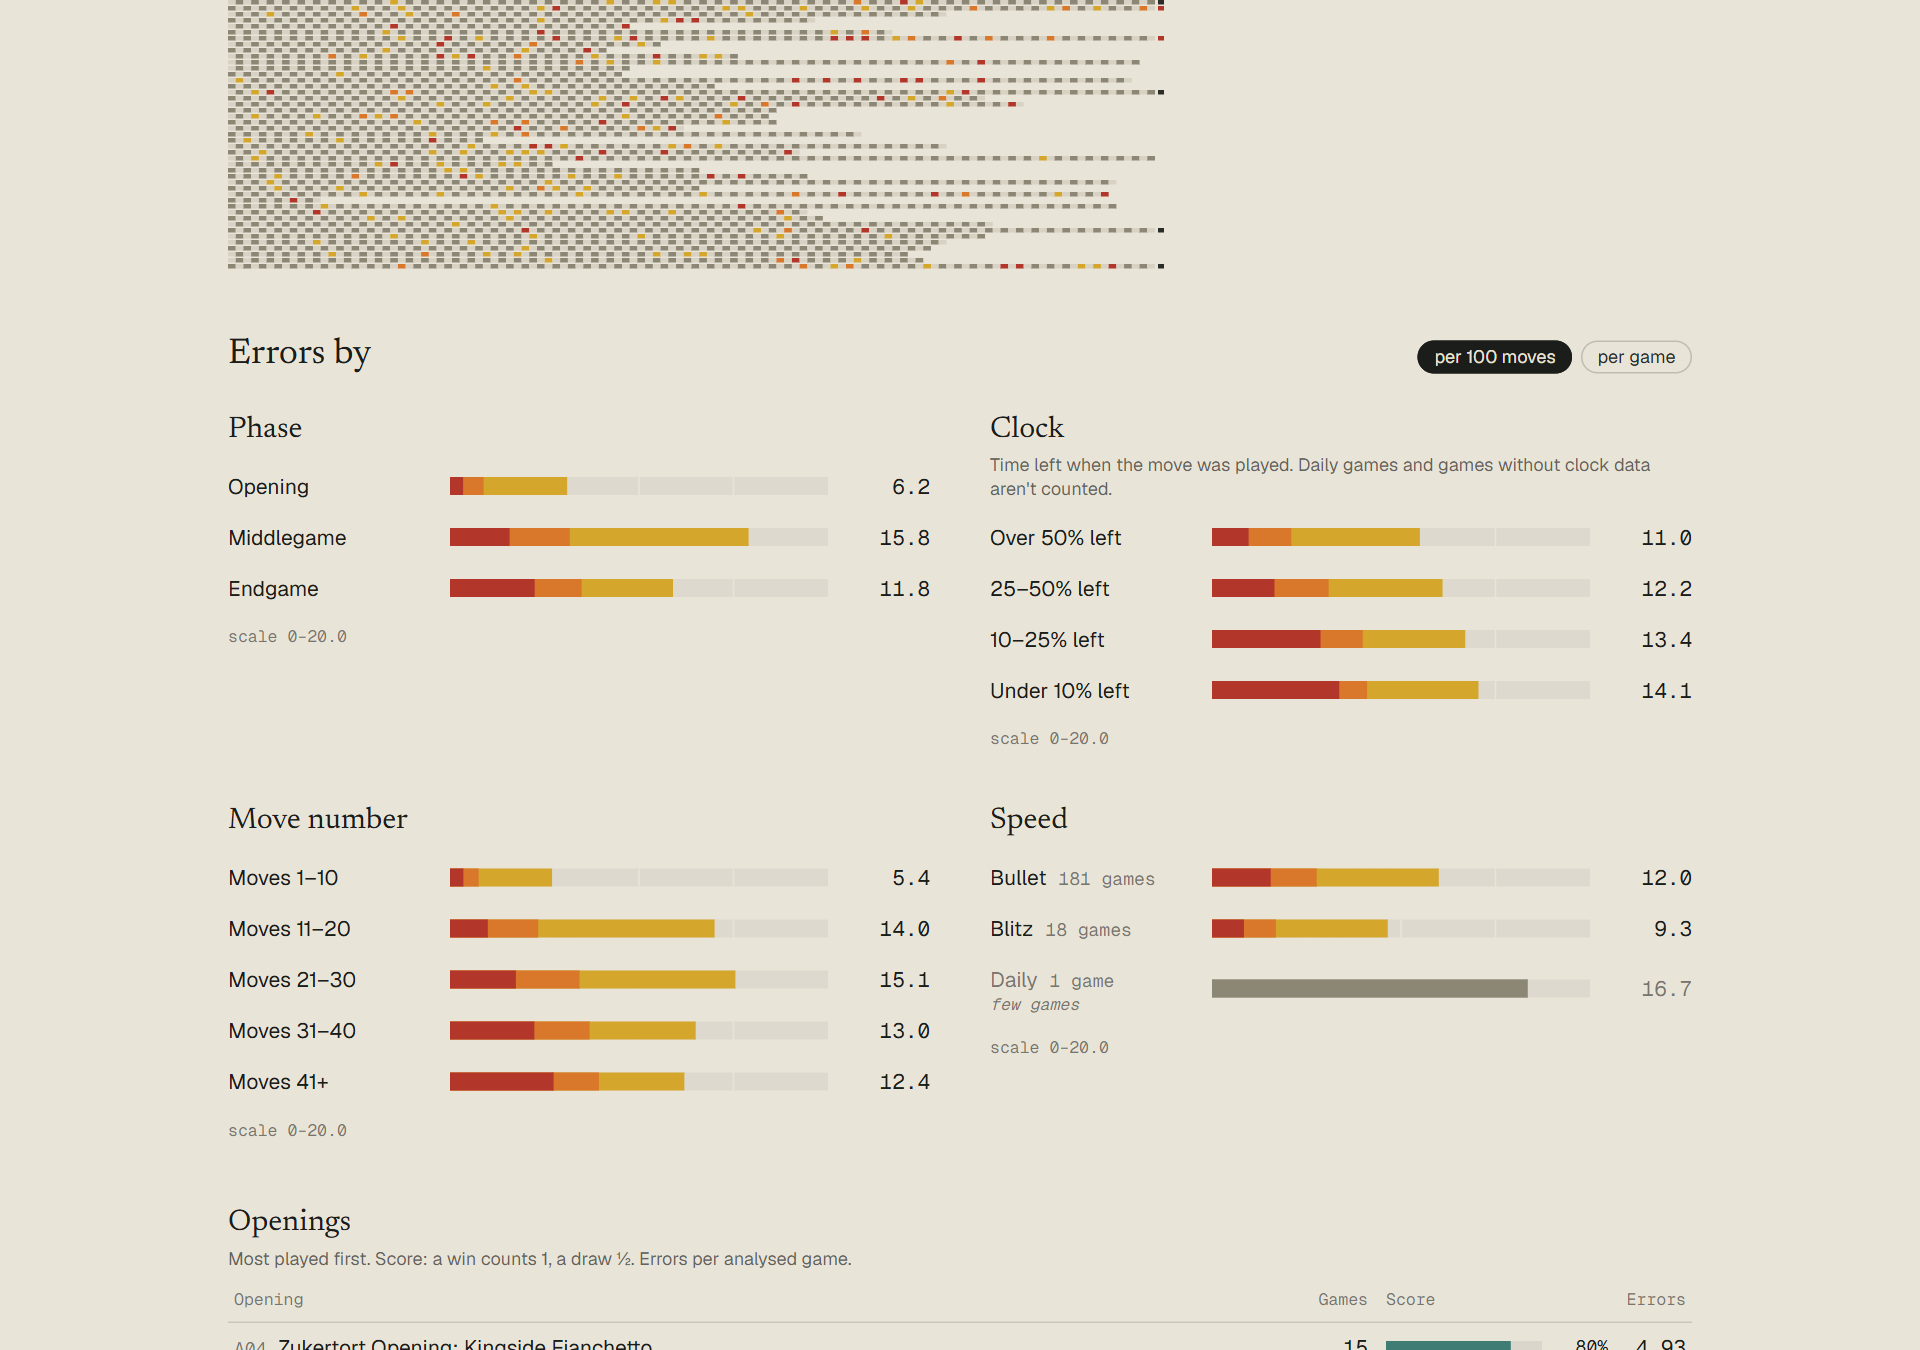
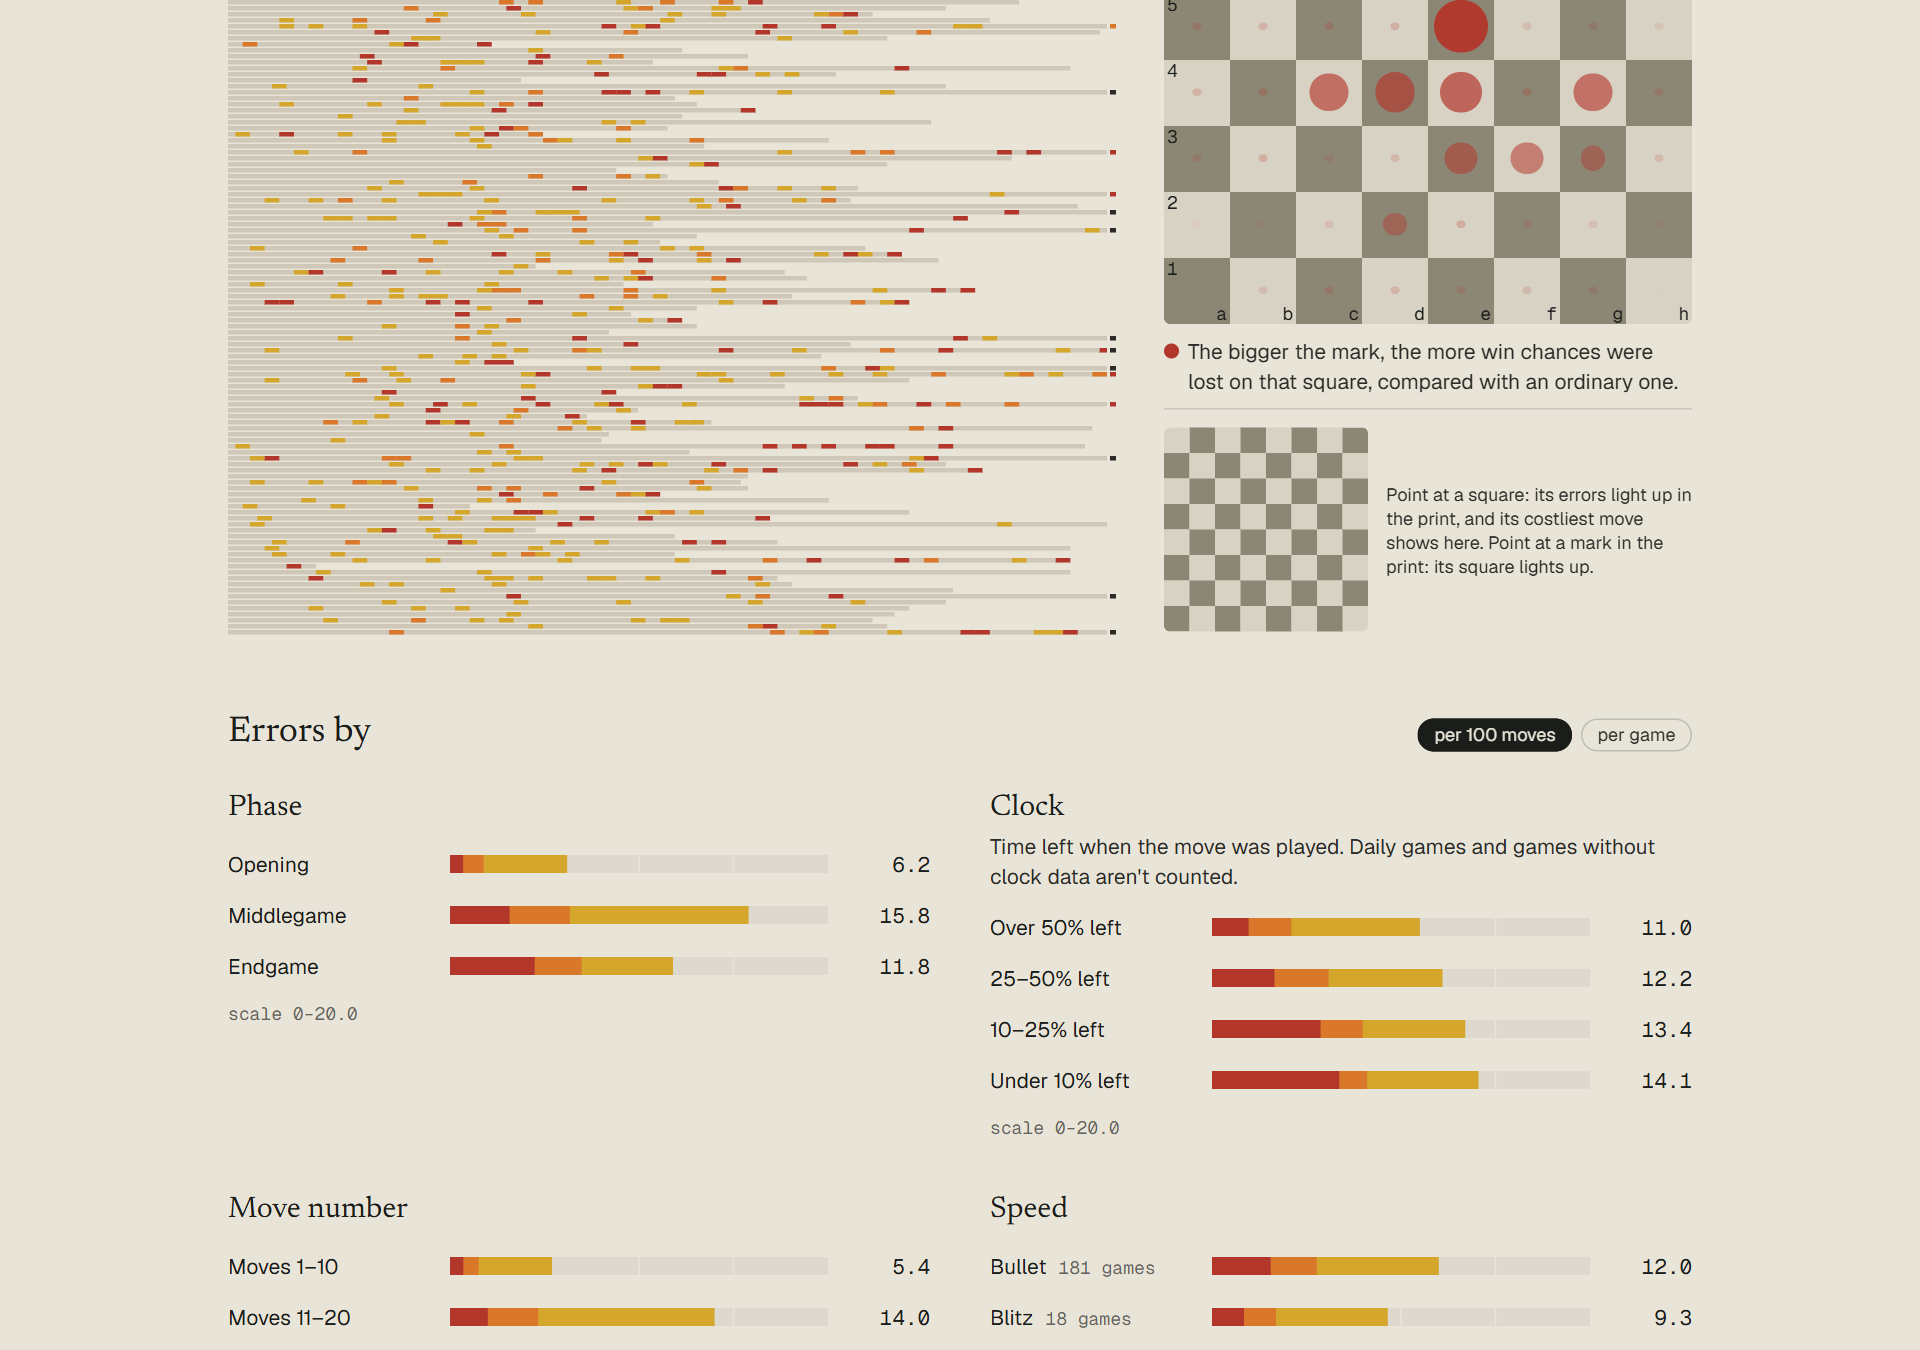
docs: the README's screenshots and Lighthouse numbers after the UI pass

diff --git a/README.md b/README.md
@@ -44,7 +44,7 @@ Below it, the same errors by phase, clock, move number and speed, per 100 moves 
 
 ![The game review page on an inaccuracy](docs/img/review.png)
 
-**5. Coach me.** The coach agent looks into the analysed games and reports 3 to 5 recurring patterns. Each has a statistic against the player's own average, the games it shows up in, an explanation, an exercise, and real positions that animate from the move played to the better move.
+**5. Coach me.** The coach agent looks into the analysed games and reports 3 to 5 recurring patterns. Each has a statistic against the player's own average, the games it shows up in, an explanation, an exercise, and real positions that animate from the move played to the better move. Every figure sits on a teal rule: point at one and the page says where it comes from ("49.4 is what 47. Nd4?? lost in win chance") and outlines that position.
 
 ![One pattern from the coach report, with its evidence boards](docs/img/coach-pattern.png)
 
@@ -266,13 +266,15 @@ Normal Chrome, dev tools closed, 1280×593 window, 60 Hz:
 
 | Test | Frames | Worst gap | Dropped | Load |
 |---|---|---|---|---|
-| Landing hero plays | 1,364 | 17.0 ms | 0% | LCP 308 ms · CLS 0.003 |
+| Landing hero plays (the first hero, since replaced) | 1,364 | 17.0 ms | 0% | LCP 308 ms · CLS 0.003 |
 | Dashboard, 9 filter changes (70.9 s) | 4,253 | 33.4 ms | 0% | LCP 1,728 ms · CLS 0.016 |
 | Dashboard, hover the print and board, scroll (39.0 s) | 2,342 | 17.0 ms | 0% | LCP 1,952 ms · CLS 0.258 → fixed, below |
 | Game review, drag the graph and hold ←/→ (53.7 s) | 3,223 | 17.5 ms | 0% | LCP 708 ms · CLS 0.010 |
 | Coach report, scroll through the boards (34.7 s) | 2,078 | 33.5 ms | 0.2% | LCP 2,292 ms |
 
 At 60 Hz a frame is 16.7 ms, so a worst gap of about 17 ms means no frame was missed, and 33 ms is one missed frame.
+
+The landing page has since become a scroll-driven dive (20 Nov 2026), and that version has not been through this checklist by hand. Measured by script instead: its layout shift through the load and a full scroll is 0.0001 at 1280 px and 0.0003 at 390 px.
 
 Two things the checklist found, and their fixes:
 
@@ -283,10 +285,10 @@ Lighthouse (mobile, simulated slow 4G and 4× slower CPU):
 
 | Page | Score | LCP | TBT | CLS |
 |---|---|---|---|---|
-| Landing | 100 | 1.3 s | 60 ms | 0 |
-| Demo dashboard | 88 | 3.69 s | 98 ms | 0 |
+| Landing | 100 | 1.0 s | 53 ms | 0 |
+| Demo dashboard | 87 | 3.9 s | 94 ms | 0 |
 
-The dashboard row is the median of 5 mobile runs on 19 Nov 2026 (scores 86 to 90). A day earlier it was 78, with 4.0 s LCP and 379 ms TBT: the 200 rows of the games list rendered in one long frame, and they now skip off-screen layout and paint and render the first 30 rows first. The dashboard waits on the API (Render's free tier) more than on the browser. Its games list now arrives in one request instead of four, one after another (18 Nov 2026): 8 API requests became 5, and the list's bytes went from 71.8 KB on the wire (473 KB of JSON) to about 19 KB (215 KB), because a list row no longer carries the mistake features that only the patterns and the coach use.
+Both rows are the median of 5 mobile runs on 20 Nov 2026 (landing 99 to 100, dashboard 86 to 88). A day earlier it was 78, with 4.0 s LCP and 379 ms TBT: the 200 rows of the games list rendered in one long frame, and they now skip off-screen layout and paint and render the first 30 rows first. The dashboard waits on the API (Render's free tier) more than on the browser. Its games list now arrives in one request instead of four, one after another (18 Nov 2026): 8 API requests became 5, and the list's bytes went from 71.8 KB on the wire (473 KB of JSON) to about 19 KB (215 KB), because a list row no longer carries the mistake features that only the patterns and the coach use.
 
 The whole page works without animation: with reduced motion, or in a browser that runs no animation frames, every element is simply in its final state.
 
